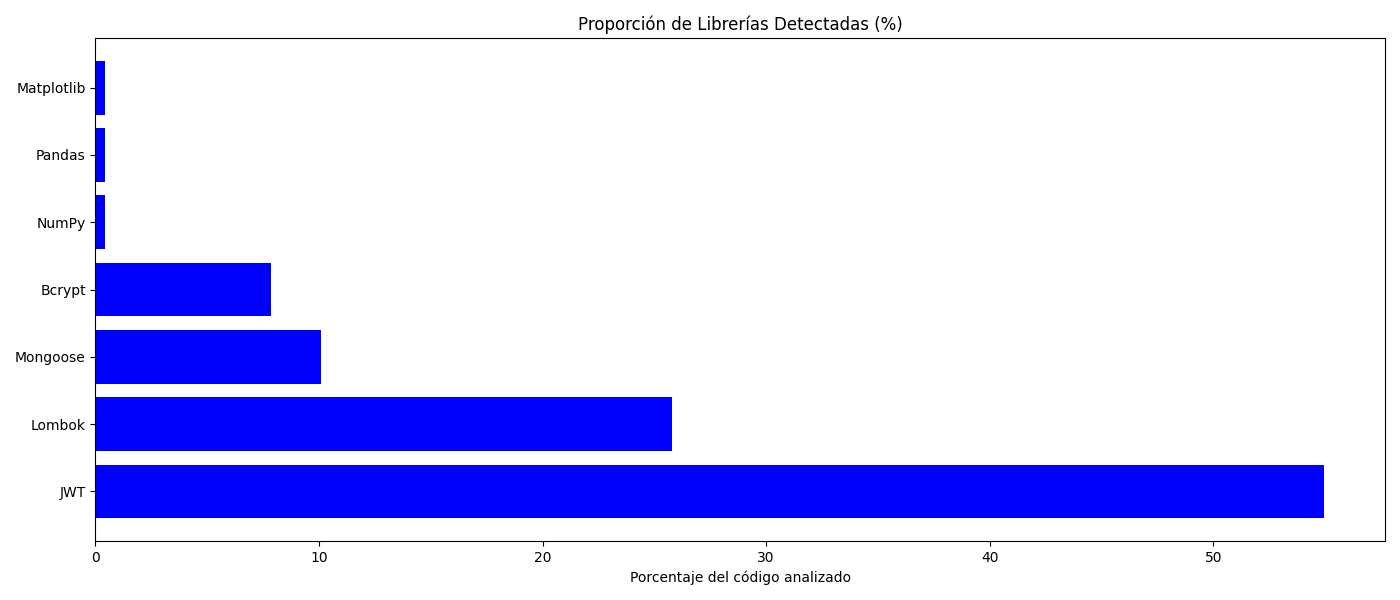
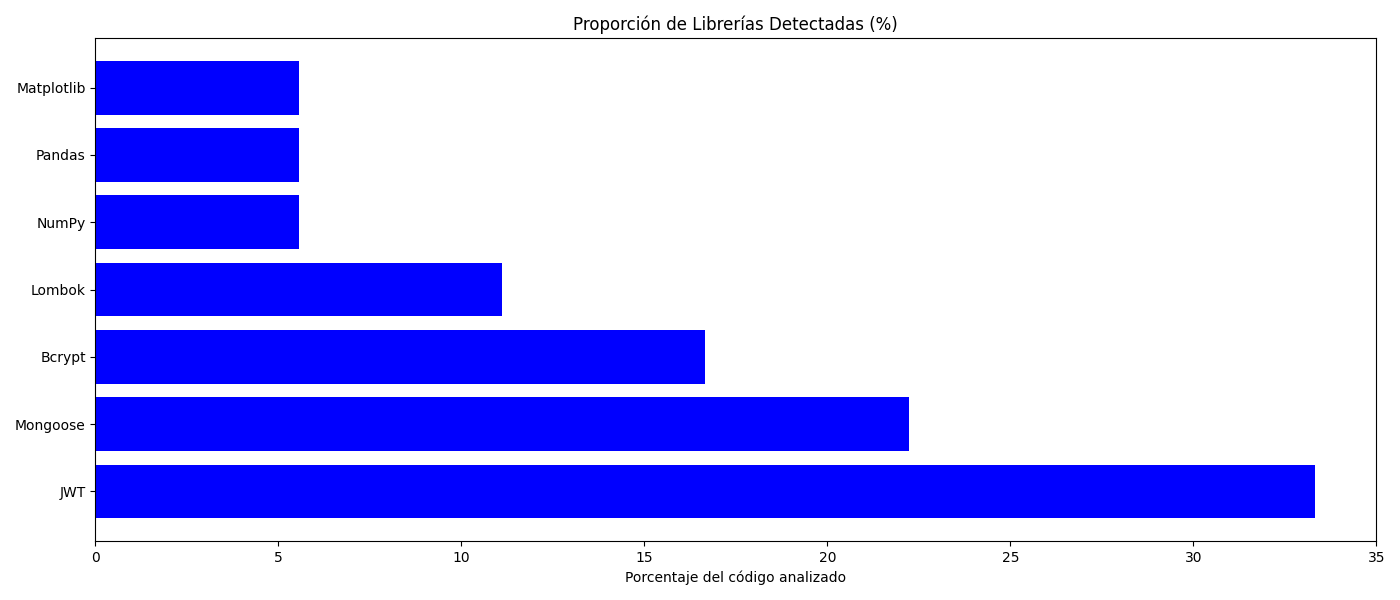
Update library stats

diff --git a/output/libraries.md b/output/libraries.md
@@ -1,9 +1,9 @@
 ## 📚 Librerías detectadas
 
-- **JWT**: 245 apariciones (~54.9%)
-- **Lombok**: 115 apariciones (~25.8%)
-- **Mongoose**: 45 apariciones (~10.1%)
-- **Bcrypt**: 35 apariciones (~7.8%)
-- **NumPy**: 2 apariciones (~0.4%)
-- **Pandas**: 2 apariciones (~0.4%)
-- **Matplotlib**: 2 apariciones (~0.4%)
+- **JWT**: 600 apariciones (~33.3%)
+- **Mongoose**: 400 apariciones (~22.2%)
+- **Bcrypt**: 300 apariciones (~16.7%)
+- **Lombok**: 200 apariciones (~11.1%)
+- **NumPy**: 100 apariciones (~5.6%)
+- **Pandas**: 100 apariciones (~5.6%)
+- **Matplotlib**: 100 apariciones (~5.6%)

diff --git a/README.md b/README.md
@@ -874,6 +874,15 @@ Tambien ultima mente le estoy agarrando el gusto a la electronica y electromecan
 <!-- AUTO-LIBRARIES -->
 ## 📚 Librerías detectadas
 
+- **JWT**: 600 apariciones (~33.3%)
+- **Mongoose**: 400 apariciones (~22.2%)
+- **Bcrypt**: 300 apariciones (~16.7%)
+- **Lombok**: 200 apariciones (~11.1%)
+- **NumPy**: 100 apariciones (~5.6%)
+- **Pandas**: 100 apariciones (~5.6%)
+- **Matplotlib**: 100 apariciones (~5.6%)
+## 📚 Librerías detectadas
+
 - **JWT**: 245 apariciones (~54.9%)
 - **Lombok**: 115 apariciones (~25.8%)
 - **Mongoose**: 45 apariciones (~10.1%)
